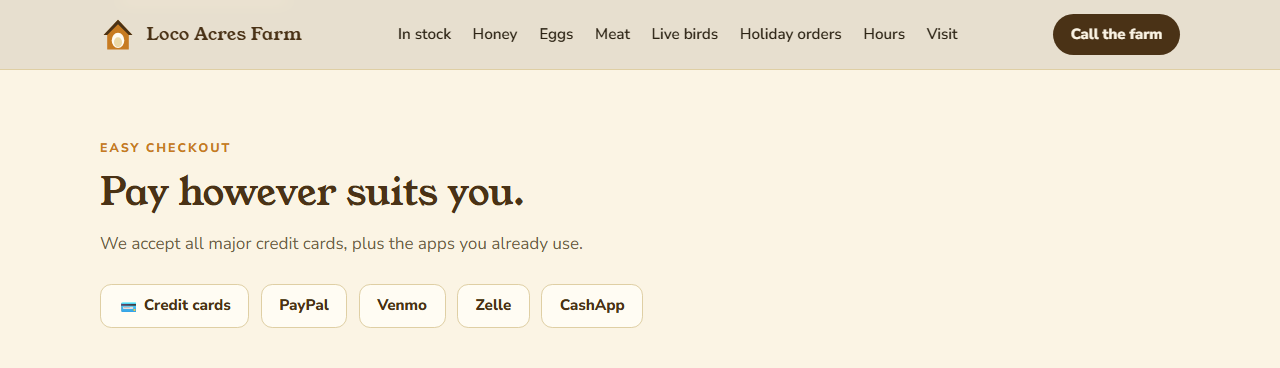
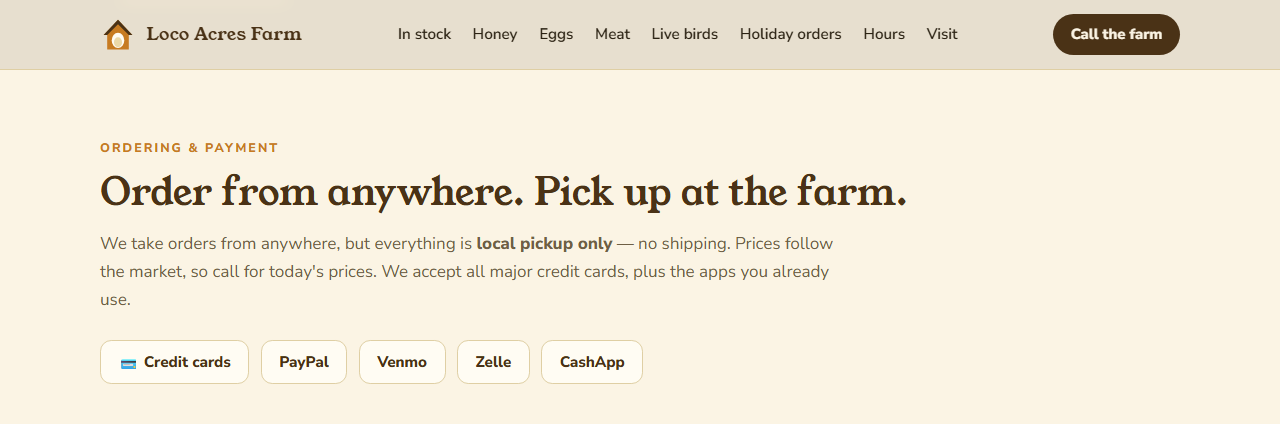
match business card and chat terms: owners, second phone, freezer meats, local pickup only, market pricing

diff --git a/index.html b/index.html
@@ -439,7 +439,7 @@
     <div class="wrap">
       <p class="eyebrow">The farm stand board</p>
       <h2>What's available right now</h2>
-      <p class="section-intro">Stock changes with the seasons and the flock — call ahead if you're driving far for something specific.</p>
+      <p class="section-intro">Stock changes with the seasons and the flock, and prices follow the market — call for today's availability and pricing. Local pickup only.</p>
       <div class="board-grid">
         <div class="bcard">
           <span class="status ok">Available now</span>
@@ -603,9 +603,9 @@
   <!-- ================= PAYMENTS ================= -->
   <section id="pay" style="padding-bottom:2.5rem">
     <div class="wrap">
-      <p class="eyebrow">Easy checkout</p>
-      <h2>Pay however suits you.</h2>
-      <p class="section-intro">We accept all major credit cards, plus the apps you already use.</p>
+      <p class="eyebrow">Ordering &amp; payment</p>
+      <h2>Order from anywhere. Pick up at the farm.</h2>
+      <p class="section-intro">We take orders from anywhere, but everything is <strong>local pickup only</strong> — no shipping. Prices follow the market, so call for today's prices. We accept all major credit cards, plus the apps you already use.</p>
       <div class="pay-row">
         <span class="pay">💳 Credit cards</span>
         <span class="pay">PayPal</span>
